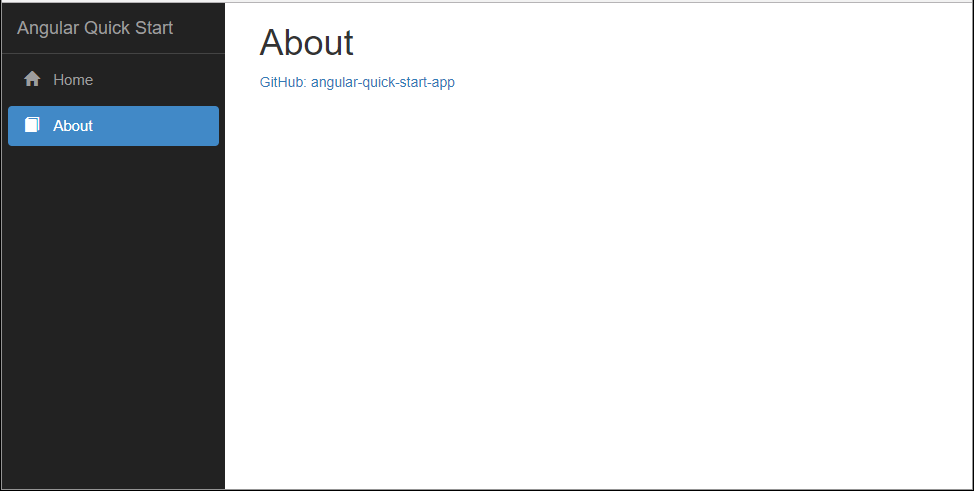
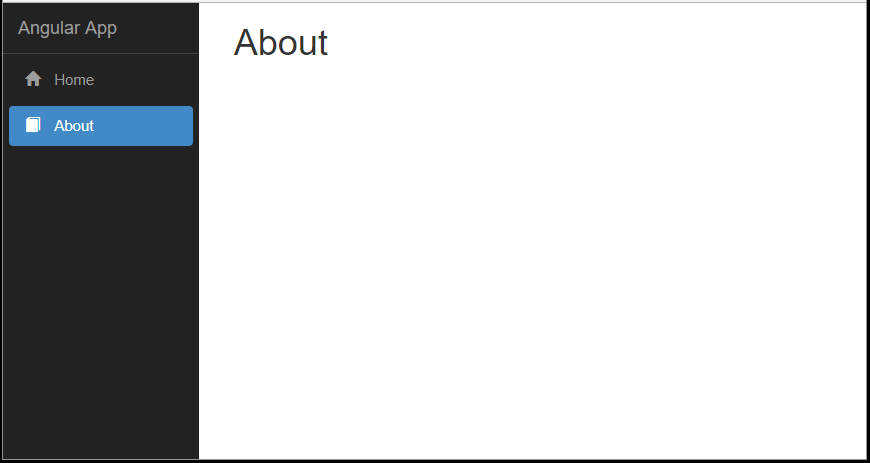
Updated documentation

diff --git a/src/app/home/home.component.html b/src/app/home/home.component.html
@@ -1,9 +1,2 @@
 <h1>{{ title }}</h1>
-<p>Welcome to angular quick start app!</p>
-
-<h2>Here are some links to help you start: </h2>
-<ul>
-  <li><a target="_blank" rel="noopener" href="https://angular.io/tutorial">Tour of Heroes</a></li>
-  <li><a target="_blank" rel="noopener" href="https://github.com/angular/angular-cli/wiki">CLI Documentation</a></li>
-  <li><a target="_blank" rel="noopener" href="https://blog.angular.io/">Angular blog</a></li>
-</ul>
+<p>Welcome to Angular quick start sample application!</p>

diff --git a/src/app/navmenu/navmenu.component.html b/src/app/navmenu/navmenu.component.html
@@ -7,7 +7,7 @@
                 <span class='icon-bar'></span>
                 <span class='icon-bar'></span>
             </button>
-            <a class='navbar-brand' [routerLink]="['/home']">Angular Quick Start</a>
+            <a class='navbar-brand' [routerLink]="['/home']">Angular App</a>
         </div>
         <div class='clearfix'></div>
         <div class='navbar-collapse collapse'>

diff --git a/src/index.html b/src/index.html
@@ -2,7 +2,7 @@
 <html lang="en">
 <head>
   <meta charset="utf-8">
-  <title>Angular Quick Start</title>
+  <title>Angular App</title>
   <base href="/">
 
   <meta name="viewport" content="width=device-width, initial-scale=1">

diff --git a/src/app/about/about.component.html b/src/app/about/about.component.html
@@ -1,2 +1,1 @@
 <h1>{{ title }}</h1>
-<a target="_blank" rel="noopener" href="https://github.com/ashfaqch/angular-quick-start-app">GitHub: angular-quick-start-app</a>

diff --git a/README.md b/README.md
@@ -8,7 +8,6 @@ The objective of this quick start application is to provide a simple way to get 
 * TypeScript: `version 2.5.3`
 
 ### Key Functionality:
-Following functionality applied on the top of key features and functionality comes with Angular CLI default project creation.
 * Router module for routing
 * Bootstrap responsive template with navigate menu
 
@@ -17,19 +16,13 @@ Following functionality applied on the top of key features and functionality com
 1. Run `ng serve`
 1. Go to http://localhost:4200/ in your browser 
 
-## Build
-Run `ng build` to build the project. The build artifacts will be stored in the `dist/` directory. Use the `-prod` flag for a production build.
+## Useful Commands
+* Run `ng build` to build the project.
+* Run `ng test` to execute the unit tests
+* Run `ng e2e` to execute the end-to-end tests
+* To get more help on the Angular CLI use `ng help` or go check out the [Angular CLI README](https://github.com/angular/angular-cli/blob/master/README.md).
 
-## Running unit tests
-Run `ng test` to execute the unit tests
-
-## Running end-to-end tests
-Run `ng e2e` to execute the end-to-end tests
-
-## Further help
-To get more help on the Angular CLI use `ng help` or go check out the [Angular CLI README](https://github.com/angular/angular-cli/blob/master/README.md).
-
-## Here are a few screenshots from the app:
+## Screenshots
 <img width="500" src="src//assets/images/screenshots/home.png" border="0" />
 <br /><br />
 <img width="500" src="src/assets/images/screenshots/about.png" border="0" />
